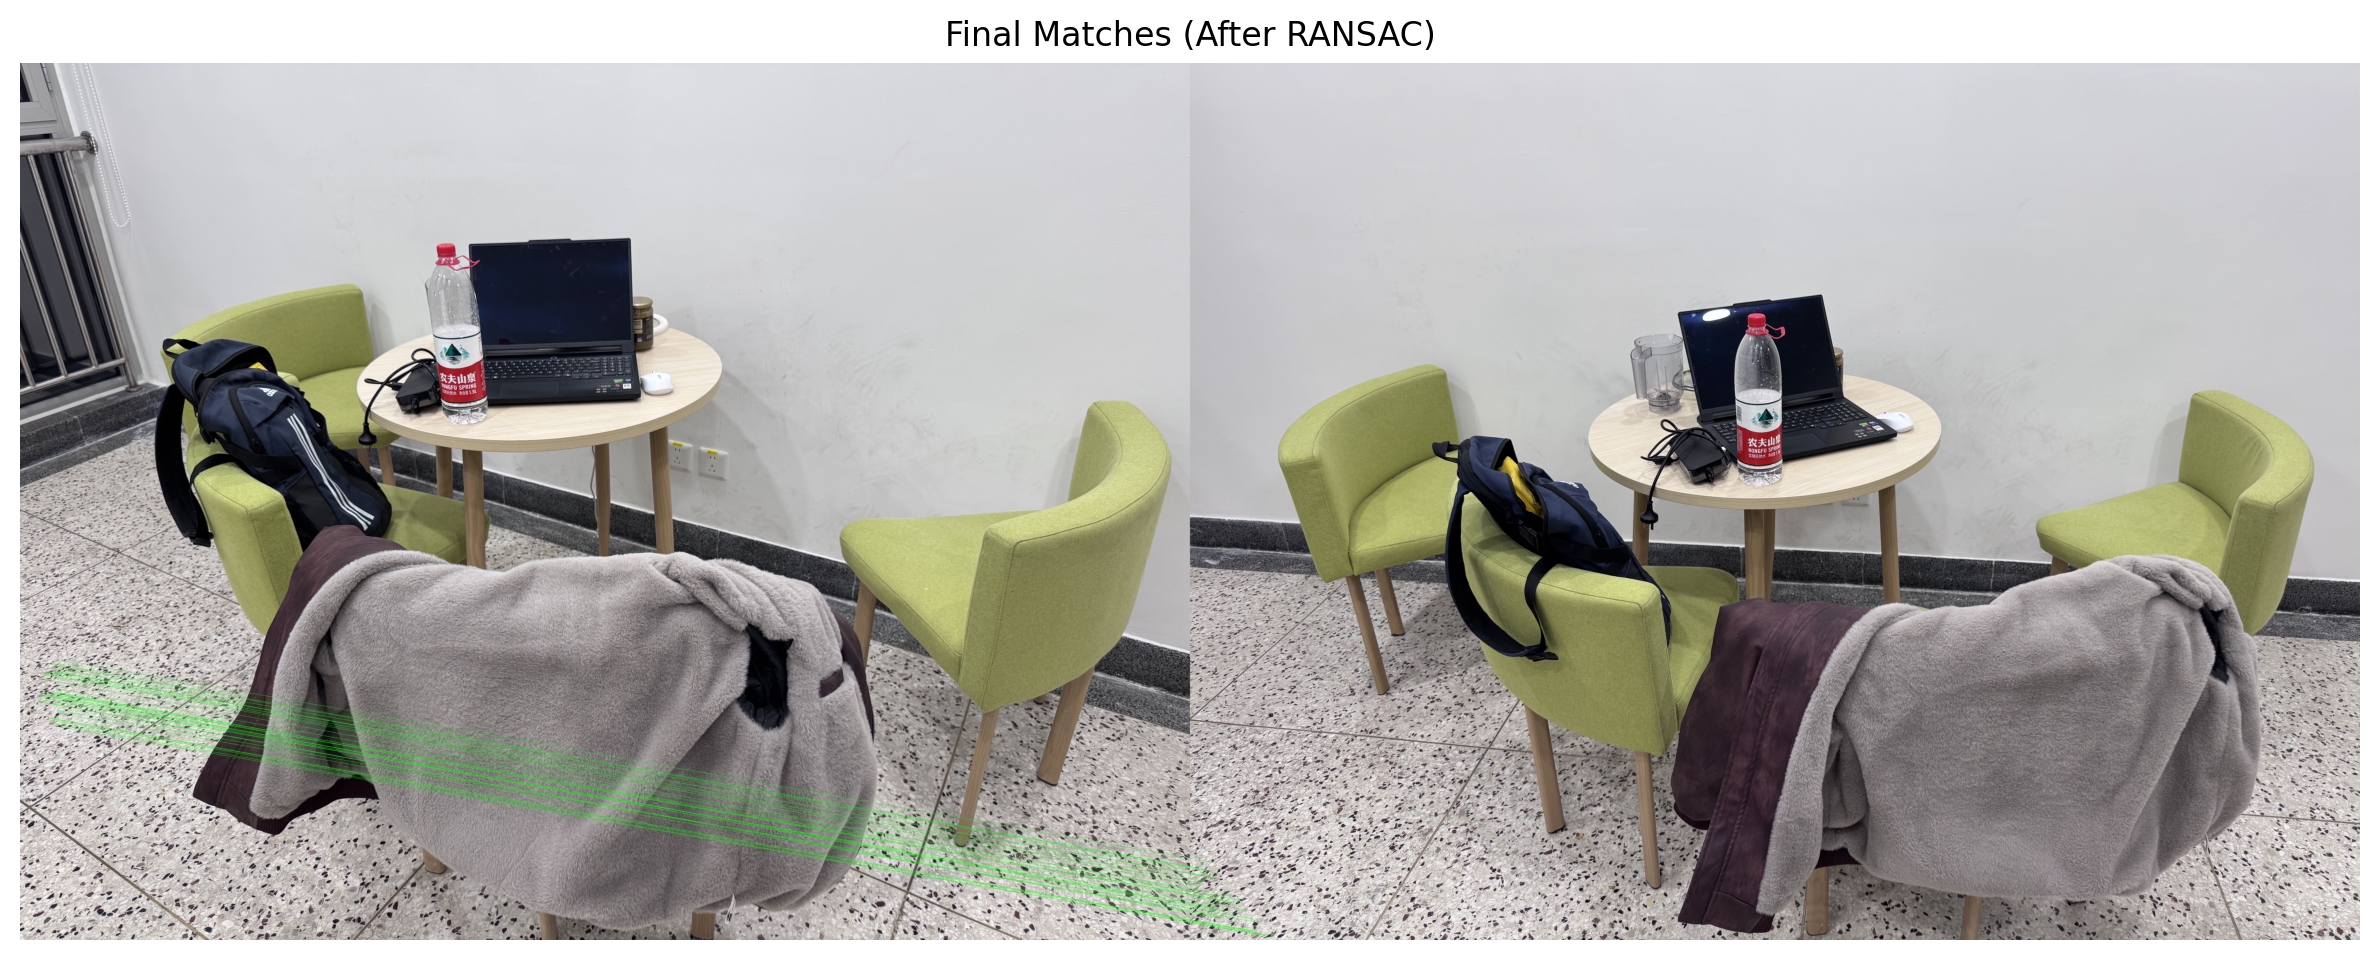
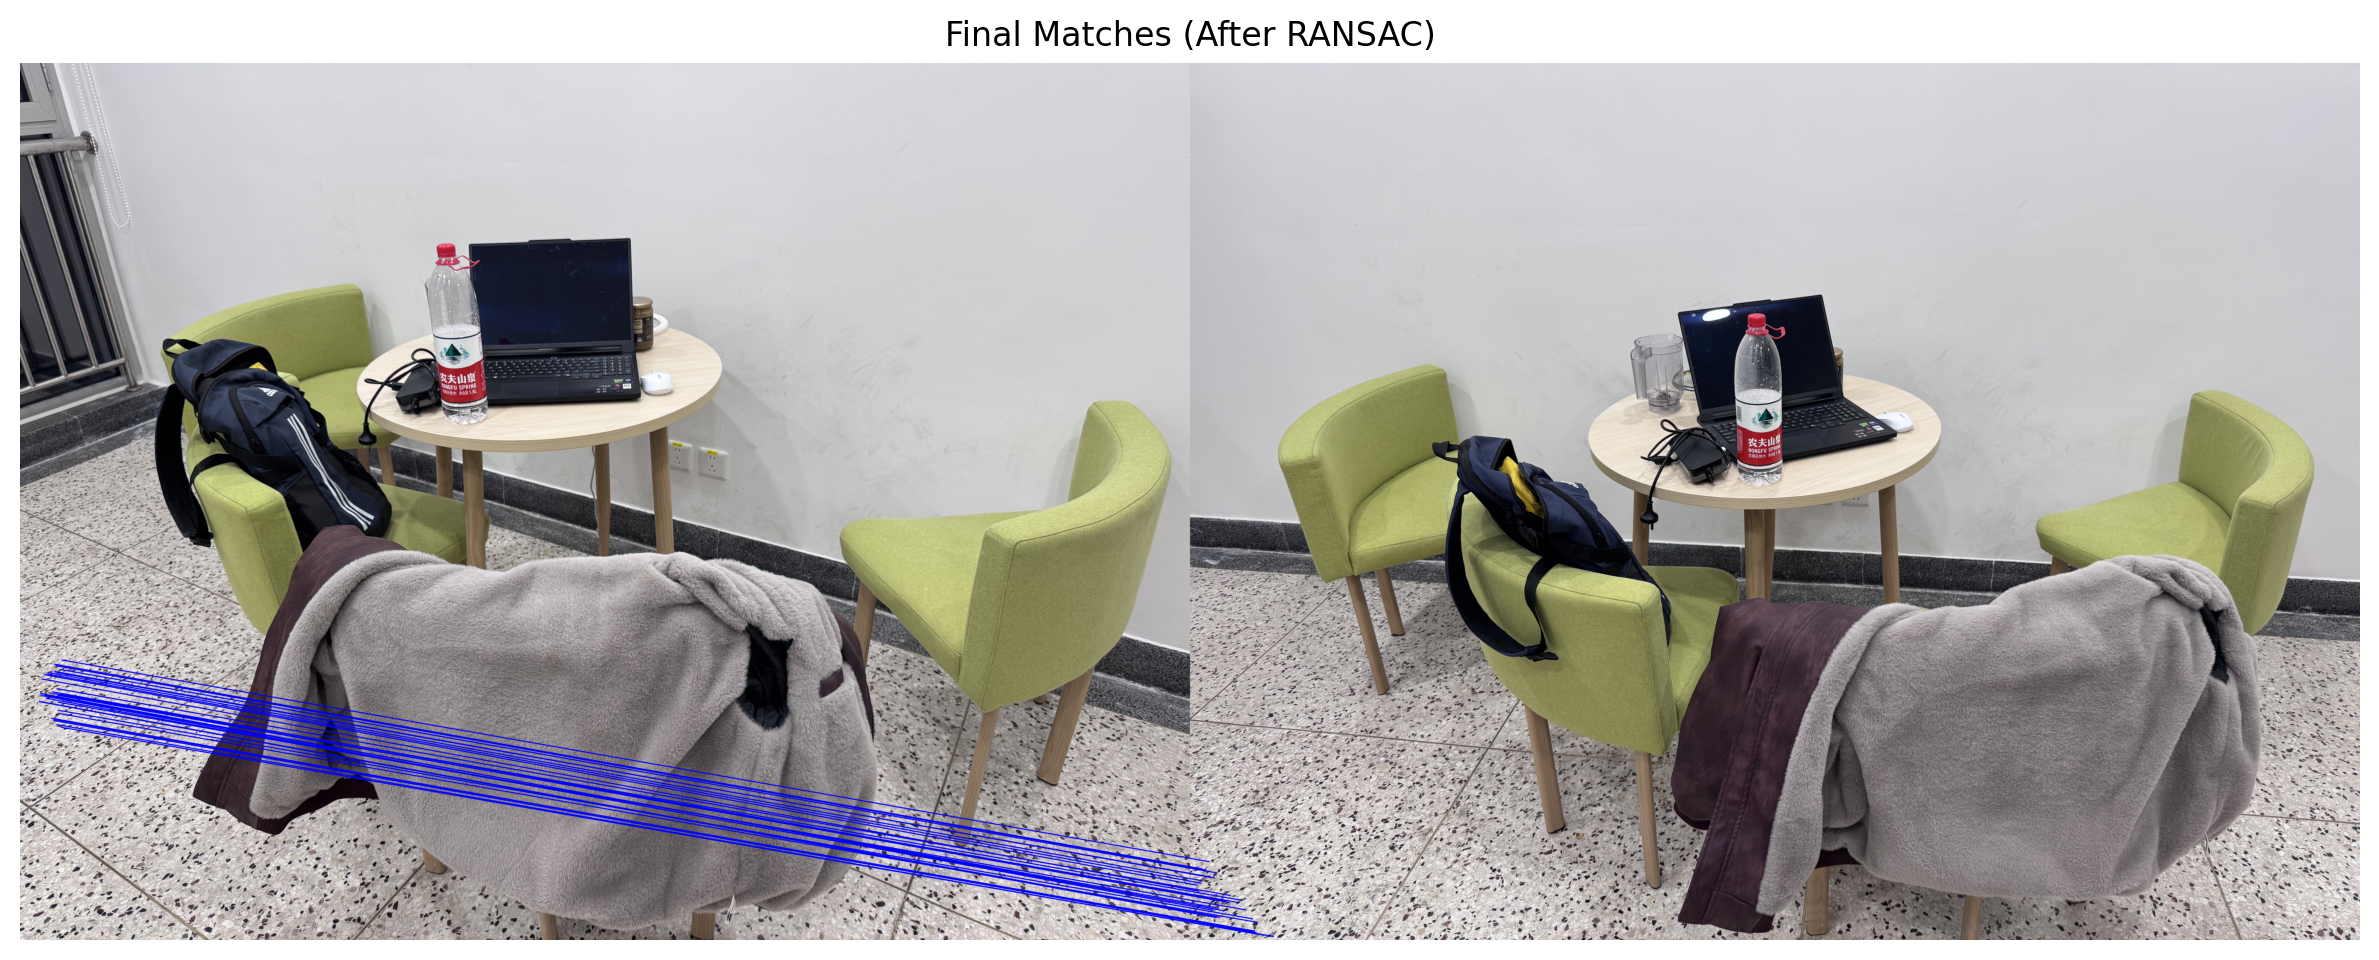
1

Changed region(s): [[0.0, 0.6875, 0.5288, 0.9688]]

diff --git a/Coding/3.2/feature_matching_filled_marked.py b/Coding/3.2/feature_matching_filled_marked.py
@@ -89,19 +89,26 @@ def visualize_matches(
     save_path=None,
 ):
     """可视化匹配结果。"""
+    # [补全] 如果传入的是 RANSAC 掩码，这里先只保留内点。
+    if mask is not None:
+        filtered_pairs = [(m, keep) for m, keep in zip(matches, mask) if keep]
+        matches = [m for m, _ in filtered_pairs]
+        mask = None
+
+    # [补全] 按匹配距离排序，优先显示质量更好的匹配。
+    matches = sorted(matches, key=lambda m: m.distance)
+
     # [补全] 只显示前 max_matches 个匹配，便于观察结果。
     if max_matches is not None:
         matches = matches[:max_matches]
-        if mask is not None:
-            mask = mask[:max_matches]
 
     draw_params = dict(
         # [补全] 将匹配线改成更醒目的蓝色，并加粗线条，方便展示。
         matchColor=(255, 0, 0),
-        singlePointColor=None,
+        singlePointColor=(255, 215, 0),
         matchesMask=mask,
-        flags=cv2.DrawMatchesFlags_NOT_DRAW_SINGLE_POINTS,
-        matchesThickness=3,
+        flags=cv2.DrawMatchesFlags_DEFAULT,
+        matchesThickness=2,
     )
 
     img_matches = cv2.drawMatches(img1, kp1, img2, kp2, matches, None, **draw_params)
@@ -146,7 +153,7 @@ def main():
         kp2,
         good_matches,
         title="After Ratio Test (Before RANSAC)",
-        max_matches=50,
+        max_matches=80,
         save_path=script_dir / "matches_before_ransac.png",
     )
 
@@ -170,7 +177,7 @@ def main():
         final_matches,
         mask=matches_mask,
         title="Final Matches (After RANSAC)",
-        max_matches=50,
+        max_matches=80,
         save_path=script_dir / "matches_after_ransac.png",
     )
 

diff --git a/Coding/3.2/feature_matching.py b/Coding/3.2/feature_matching.py
@@ -85,17 +85,22 @@ def visualize_matches(
     save_path=None,
 ):
     """Visualize a subset of matches."""
+    if mask is not None:
+        filtered_pairs = [(m, keep) for m, keep in zip(matches, mask) if keep]
+        matches = [m for m, _ in filtered_pairs]
+        mask = None
+
+    matches = sorted(matches, key=lambda m: m.distance)
+
     if max_matches is not None:
         matches = matches[:max_matches]
-        if mask is not None:
-            mask = mask[:max_matches]
 
     draw_params = dict(
         matchColor=(255, 0, 0),
-        singlePointColor=None,
+        singlePointColor=(255, 215, 0),
         matchesMask=mask,
-        flags=cv2.DrawMatchesFlags_NOT_DRAW_SINGLE_POINTS,
-        matchesThickness=3,
+        flags=cv2.DrawMatchesFlags_DEFAULT,
+        matchesThickness=2,
     )
 
     img_matches = cv2.drawMatches(img1, kp1, img2, kp2, matches, None, **draw_params)
@@ -134,7 +139,7 @@ def main():
         kp2,
         good_matches,
         title="After Ratio Test (Before RANSAC)",
-        max_matches=50,
+        max_matches=80,
         save_path=script_dir / "matches_before_ransac.png",
     )
 
@@ -159,7 +164,7 @@ def main():
         final_matches,
         mask=matches_mask,
         title="Final Matches (After RANSAC)",
-        max_matches=50,
+        max_matches=80,
         save_path=script_dir / "matches_after_ransac.png",
     )
 
